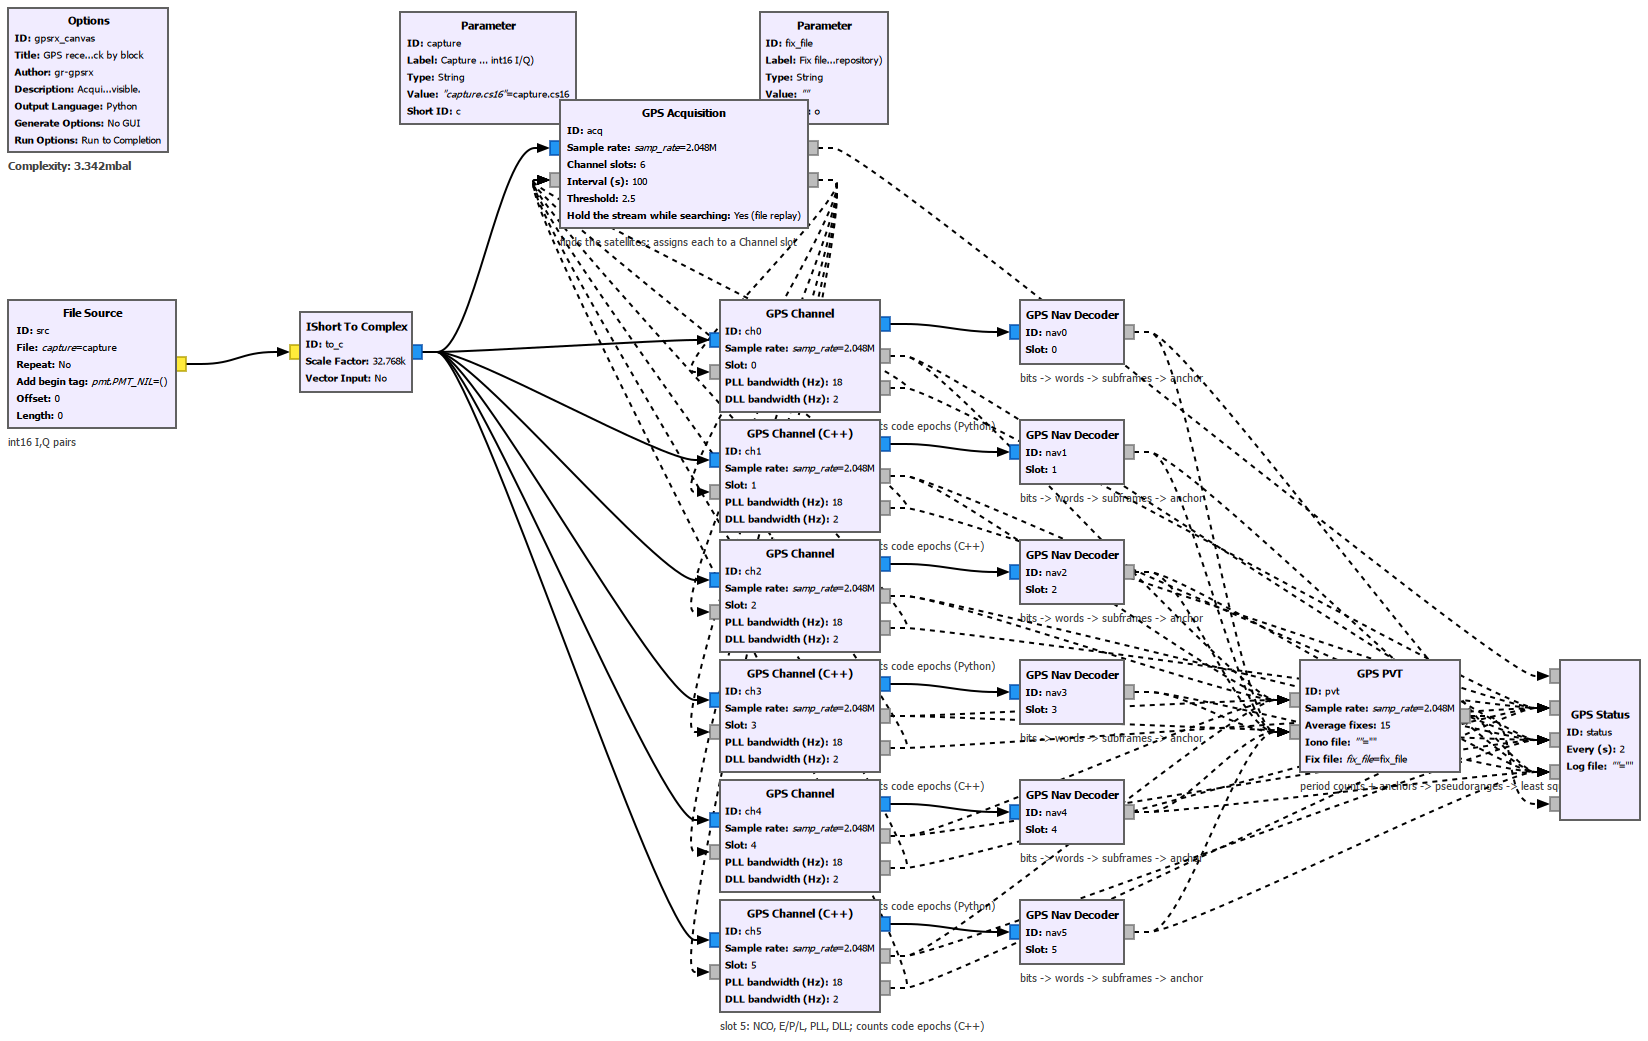
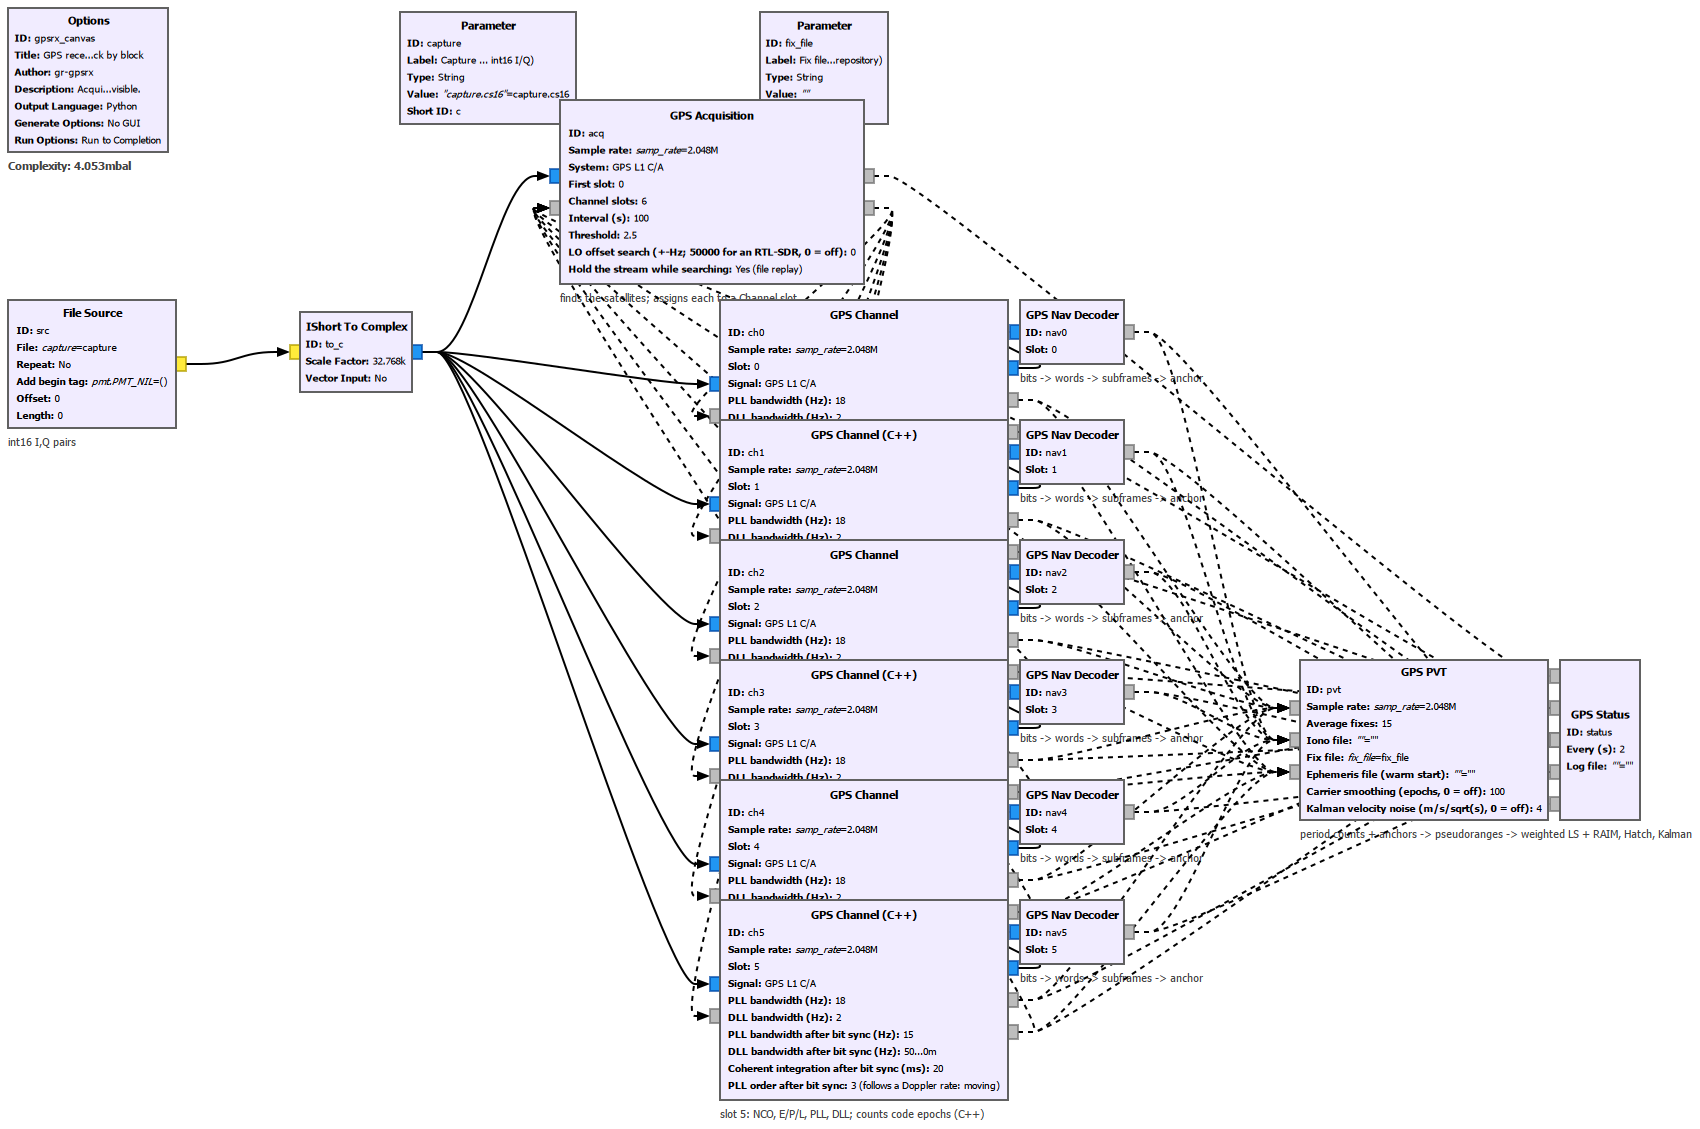
README brought up to date: test counts (32 engine tests), the stage table names the grid watch, the scintillation indices, the elevation mask, the stream watchdog and RINEX; the status paragraph carries RINEX and the broadcast check; the canvas render re-made from the current blocks (the C++ channel

Changed region(s): [[0.0, 0.0, 1.0, 1.0], [0.0, 0.0, 0.0928, 0.1844], [0.7737, 0.4611, 0.8046, 0.4918]]

diff --git a/python/gpsrx/sky_panel.py b/python/gpsrx/sky_panel.py
@@ -188,7 +188,7 @@ class sky_panel(gr.basic_block, QtWidgets.QWidget):
                 txt += f"  lock {o['lock']:.2f}  C/N0 {o.get('cn0_db', 0):4.1f}" + (f"  {o['carrier_hz']:+7.1f} Hz" if not self.private else "") \
                     + f"  {o['epochs'] / 1000:4.0f} s" + (f"  S4 {o['s4']:.2f}" if o.get("s4") is not None else "")
             if nv:
-                txt += f"  subframes {nv['n_subframes']:2d}" + ("  ephemeris" if nv.get("complete") else "")
+                txt += f"  {'pages' if nv.get('system') == 'GAL' else 'subframes'} {nv['n_subframes']:2d}" + ("  ephemeris" if nv.get("complete") else "")
             lines.append(txt)
         self.table.setText("\n".join(lines) if lines else "waiting for the first search")
         if fix and fix.get("ok"):

diff --git a/README.md b/README.md
@@ -12,11 +12,13 @@
 > apart. **Galileo E1** is in - pilot-aided tracking on E1-C with I/NAV decoding, C++ and Python
 > - a joint GPS + Galileo fix is quieter than GPS alone on the same samples (1.8 m vs 3.8 m
 > settled scatter), and it runs **live**: 8 minutes on the RSPdx, four Galileo satellites tracked
-> and decoded from the air, 426 fixes from 7 GPS + 3 Galileo, 100% valid, rms 2.2 m, 0.6 m scatter. Replay is deterministic to the millimetre. Every fix carries GPS time, the
-> sample clock's drift, and the sample of the next whole second (a 1PPS on the sample clock).
-> Eight C++ channels run at 15x real time on a PC and 13x on a Raspberry Pi 5. Windows
-> (radioconda + MSVC), Linux and the Pi build from the same CMake; CI builds against Ubuntu's
-> GNU Radio and runs the QA.
+> and decoded from the air, 426 fixes from 7 GPS + 3 Galileo, 100% valid, rms 2.2 m, 0.6 m
+> scatter. Replay is deterministic to the millimetre. Every fix carries GPS time, the sample
+> clock's drift, and the sample of the next whole second (a 1PPS on the sample clock); the
+> observables and ephemerides go out as RINEX 3, and the decoded ephemerides match the IGS
+> broadcast file field for field. Eight C++ channels run at 15x real time on a PC and 13x on a
+> Raspberry Pi 5. Windows (radioconda + MSVC), Linux and the Pi build from the same CMake; CI
+> builds against Ubuntu's GNU Radio and runs the QA.
 
 **Start with [`docs/WALKTHROUGH.md`](docs/WALKTHROUGH.md)** - the receiver one block at a time, with
 figures made from synthetic satellites you can regenerate. Then `docs/DESIGN.md` (the receiver),
@@ -43,9 +45,9 @@ is gnss-sdr. This is the textbook, in the tool people use - and on L1 it now mea
 |---|---|---|
 | codes | `cacode.py`, `gale1.py` | IS-GPS-200 C/A generator checked against the published chips; Galileo E1-B/E1-C memory codes (gnss-sdr's table) with the BOC(1,1) subcarrier |
 | Acquisition | `acquire.py`, block in `acquisition.py` | parallel code-phase search, coherent x non-coherent, Doppler refined on 100 ms; finds the LO offset of a cheap crystal first (`lo_search_hz`); assigns satellites to channel slots; one block per system |
-| Channel | `track.py`, block in `channel.py`; C++ twin `lib/channel_cc_impl.cc` | one satellite: wipe-off, three correlators (four for a pilot signal), Costas PLL, early-late DLL, one code period per step; **counts code epochs**. Two stages: wide 1 ms loops, then bit sync (or secondary-code sync on the Galileo pilot) and whole-bit coherent windows with narrow third-order loops. Same ports, tag and messages in both languages; the Python one is for reading, the C++ one for the radio |
+| Channel | `track.py`, block in `channel.py`; C++ twin `lib/channel_cc_impl.cc` | one satellite: wipe-off, three correlators (four for a pilot signal), Costas PLL, early-late DLL, one code period per step; **counts code epochs**. Two stages: wide 1 ms loops, then bit sync (or secondary-code sync on the Galileo pilot) and whole-bit coherent windows with narrow third-order loops; keeps watching its bit grid (a dropped radio buffer shows up there and nowhere else) and reports S4 / sigma_phi once a minute. Same ports, tag and messages in both languages; the Python one is for reading, the C++ one for the radio |
 | Nav decoder | `nav.py`, `nav_gal.py`, block in `nav_decoder.py` | GPS: preamble/parity framing in either polarity, subframes 1-4 -> ephemeris and Klobuchar, false frames rejected by continuity. Galileo: streaming I/NAV (Viterbi, deinterleave, CRC-24Q), ephemeris, GGTO. Both: **timing anchors** (which code period a subframe/page began on, and its TOW) |
-| PVT | `pvt.py`, block in `pvt_solver.py` | orbit, SV clock, Sagnac, troposphere, ionosphere; carrier-smoothed pseudoranges; weighted least squares with an inter-system clock unknown; RAIM; a Kalman filter on the fixes; the timing product; warm start from kept ephemerides |
+| PVT | `pvt.py`, block in `pvt_solver.py`; `rinex.py` | orbit, SV clock, Sagnac, troposphere, ionosphere; carrier-smoothed pseudoranges; weighted least squares with an inter-system clock unknown; RAIM; an elevation mask that keeps a spare; a Kalman filter on the fixes; the timing product; the stream watchdog; warm start from kept ephemerides; RINEX 3 observations and ephemerides on request |
 | Status, Sky Panel | `status_sink.py`, `sky_panel.py` (Qt) | the receiver's state, quality only - never the position (the panel's `private` view hides the PRNs and turns the sky) |
 | Receiver | `receiver.py` | the whole chain as one hier block (`n_channels` GPS + `n_galileo` Galileo), every inner message port exposed |
 | synthetic sky | `synth.py`, `navgen.py` | any satellites, Dopplers, C/N0s, Doppler rates, real nav messages with parity - so every test runs with no capture and no radio |
@@ -61,7 +63,7 @@ sample and the solve once per stream second, two replays of the same file differ
 
 ```
 pip install numpy pytest pyyaml
-NUMPY_GPS_DIR=/path/to/numpy-gps pytest -q tests                  # 23 engine tests, ~1 min, no GNU Radio
+NUMPY_GPS_DIR=/path/to/numpy-gps pytest -q tests                  # 32 engine tests, ~1 min, no GNU Radio
 python python/gpsrx/qa_channel.py ; python python/gpsrx/qa_receiver.py    # the blocks, under GNU Radio
 
 util\build_win.cmd                    # Windows: the C++ Channel (radioconda + VS Build Tools)
@@ -98,11 +100,12 @@ instead of the C++ ones (0.17x real time for eight: replay only).
 
 ![the Sky Panel on a GPS + Galileo replay, private view](docs/img/sky_panel_galileo_replay_private.png)
 
-*The Sky Panel on the wideband recording with four Galileo channels (`E--`) beside seven GPS:
-11 satellites in the fix. The panel's private view: a named constellation at a known time can
-be inverted to a rough position, so for screenshots the PRN numbers are hidden and the sky is
-turned by an undisclosed angle. Everything else in the picture is as it ran; dot colour is
-lock quality. The GPS-only version is `docs/img/sky_panel_private.png`.*
+*The Sky Panel on the wideband recording with four Galileo channels (`E--`) beside eight GPS:
+12 satellites in the fix, and each channel's S4 after its first minute. The panel's private
+view: a named constellation at a known time can be inverted to a rough position, so for
+screenshots the PRN numbers are hidden and the sky is turned by an undisclosed angle.
+Everything else in the picture is as it ran; dot colour is lock quality. The GPS-only version
+is `docs/img/sky_panel_private.png`.*
 
 ## Measured
 
@@ -118,7 +121,7 @@ All of it is in `docs/TEST_REPORT.md`; the headlines, no coordinates anywhere:
 - **Decoded ephemerides vs the IGS broadcast file for the same day:** 11 satellites, 275 fields, every orbit and clock term identical.
 - **Scintillation:** S4 and sigma_phi per satellite per minute (noise-corrected, on 20 ms power); the July attic reads S4 0.07-0.24 - a quiet ionosphere, a little multipath.
 - **Stream integrity:** a missing code period (invisible to the loops and the solver) is caught by the bit grid moving; the receiver resyncs and its GPS time steps by exactly the lost millisecond.
-- **Tests:** 30 engine tests (no GNU Radio), 7 flowgraph QA; CI on Ubuntu 24.04 against the distribution's GNU Radio.
+- **Tests:** 32 engine tests (no GNU Radio), 7 flowgraph QA; CI on Ubuntu 24.04 against the distribution's GNU Radio.
 
 ## What is not done
 
@@ -129,8 +132,8 @@ All of it is in `docs/TEST_REPORT.md`; the headlines, no coordinates anywhere:
 - Acquisition is snapshot-and-search every N seconds; a satellite rising mid-run is picked up at
   the next interval.
 - The Qt radio flowgraph's full-rate spectrum display causes overflows at 4.096 MS/s on a PC - use
-  `apps/gpsrx_live.py` for Galileo live. (A dropped block is now caught: the channels watch their
-  bit grid and report a `slip`, PVT drops the anchors, the decoders re-anchor - about 10 s of no fix.)
+  `apps/gpsrx_live.py` for Galileo live. A dropped block is caught (a `slip`), but it costs about
+  10 s without a fix while the decoders re-anchor.
 - GLONASS, BeiDou: not started.
 
 ## Licence
